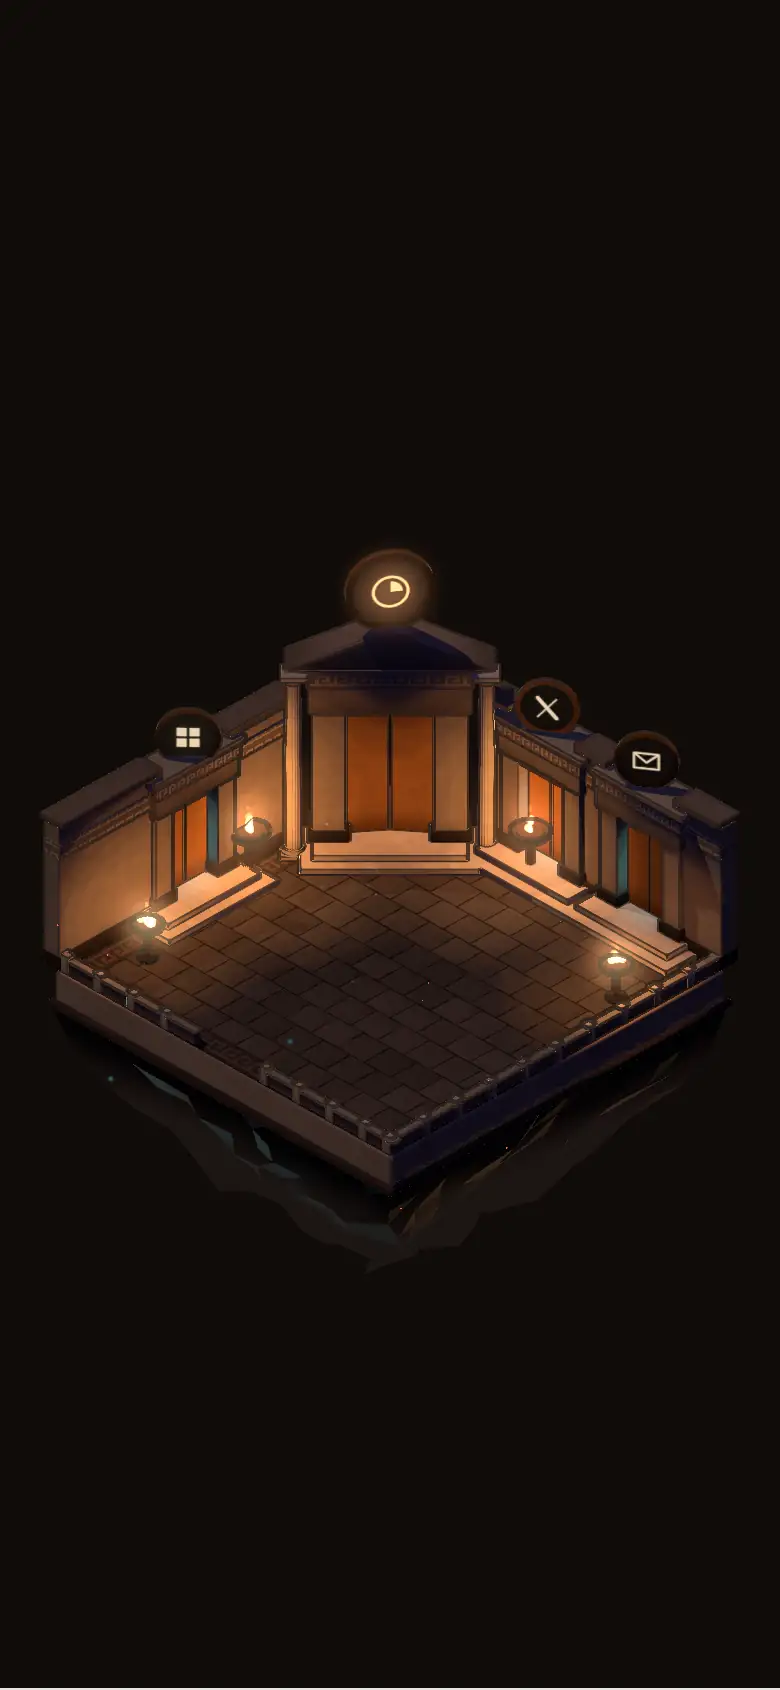
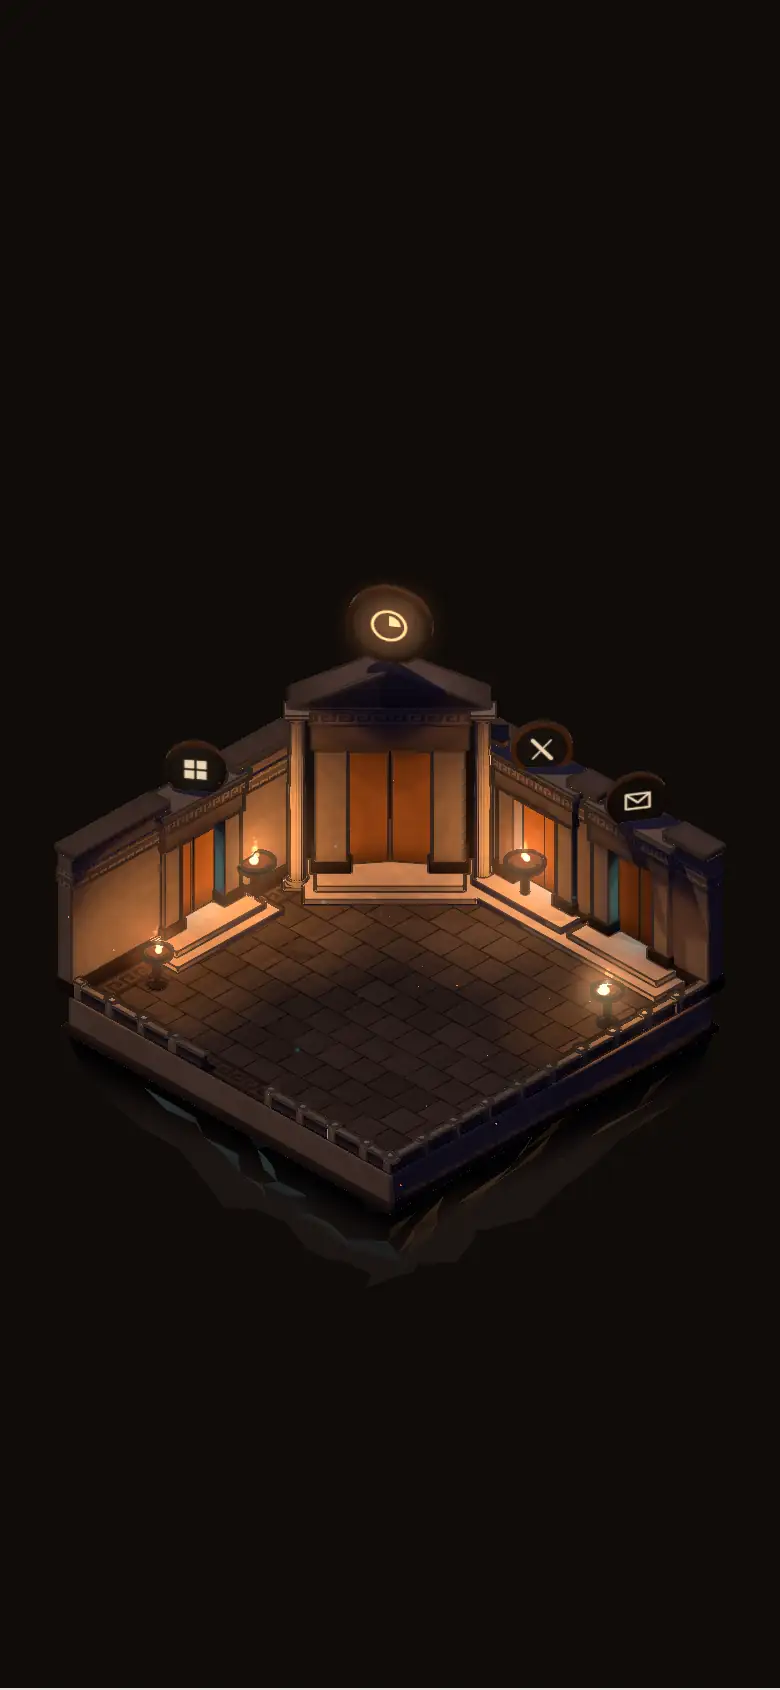
Footer A: frame the chamber so the call's plate clears the top; poster re-rendered

Changed region(s): [[0.0308, 0.3077, 0.9538, 0.7385]]

diff --git a/src/components/world/foot.ts b/src/components/world/foot.ts
@@ -231,7 +231,7 @@ export function buildFoot(ctx: Ctx, v: FootV, exits: Exit[]): Foot {
     return {
       fires,
       targets,
-      shot: { t: W(-3.5, 6.5, -3.5), h: 40, w: 50, floor: O.y },
+      shot: { t: W(-3.5, 9, -3.5), h: 44, w: 52, floor: O.y },
       focus: (k) => doors.find((d) => d.key === k)!.focus,
       update(dt, st) {
         const t = ctx.time.value;
